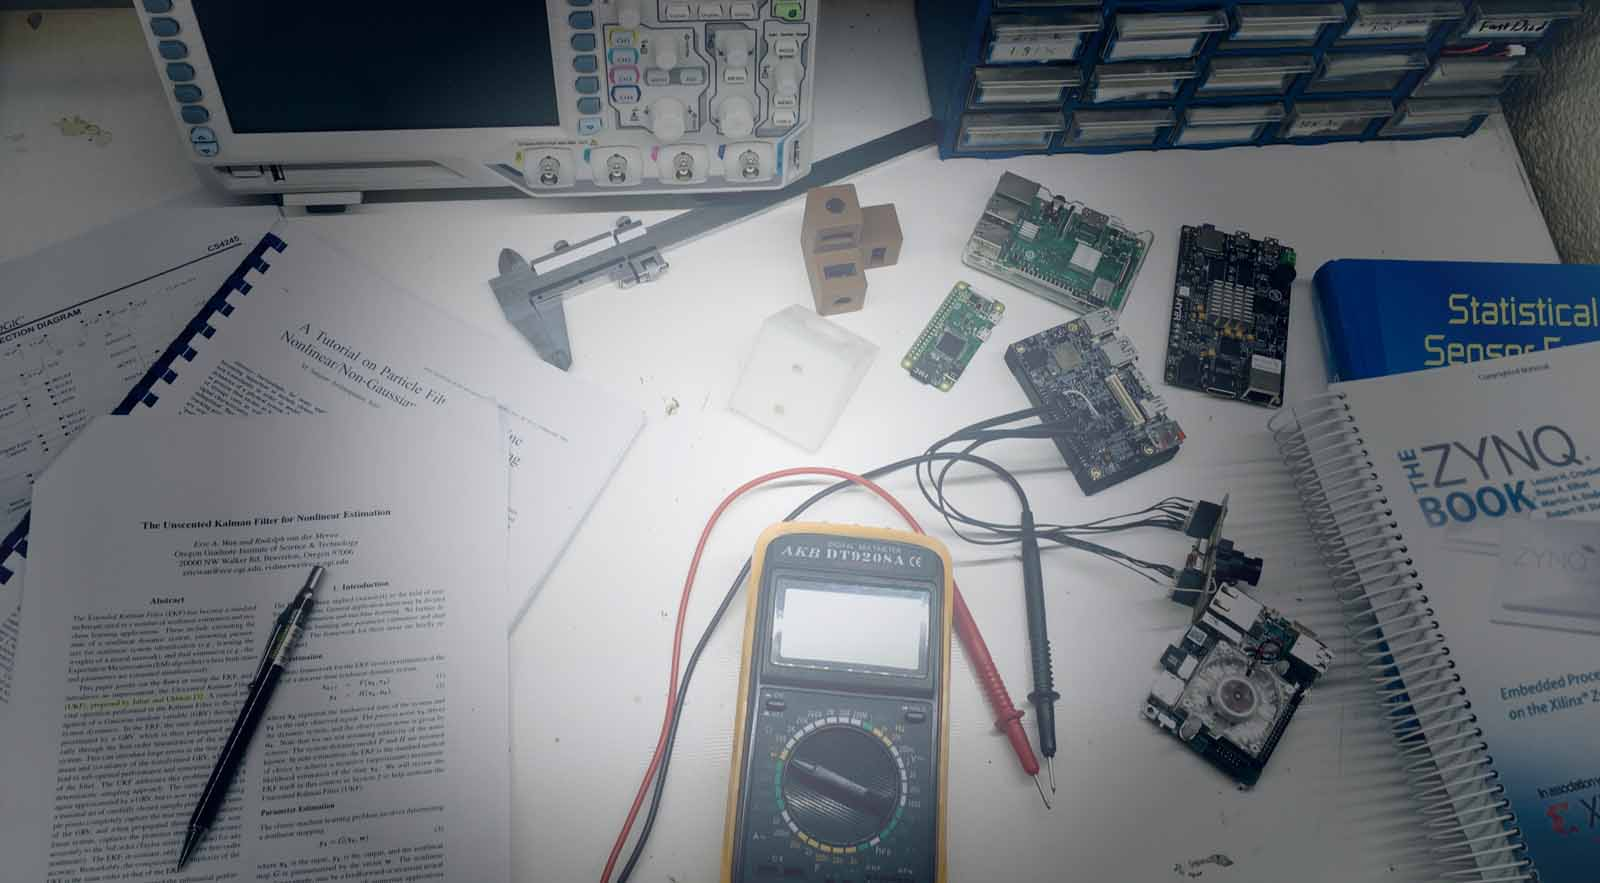
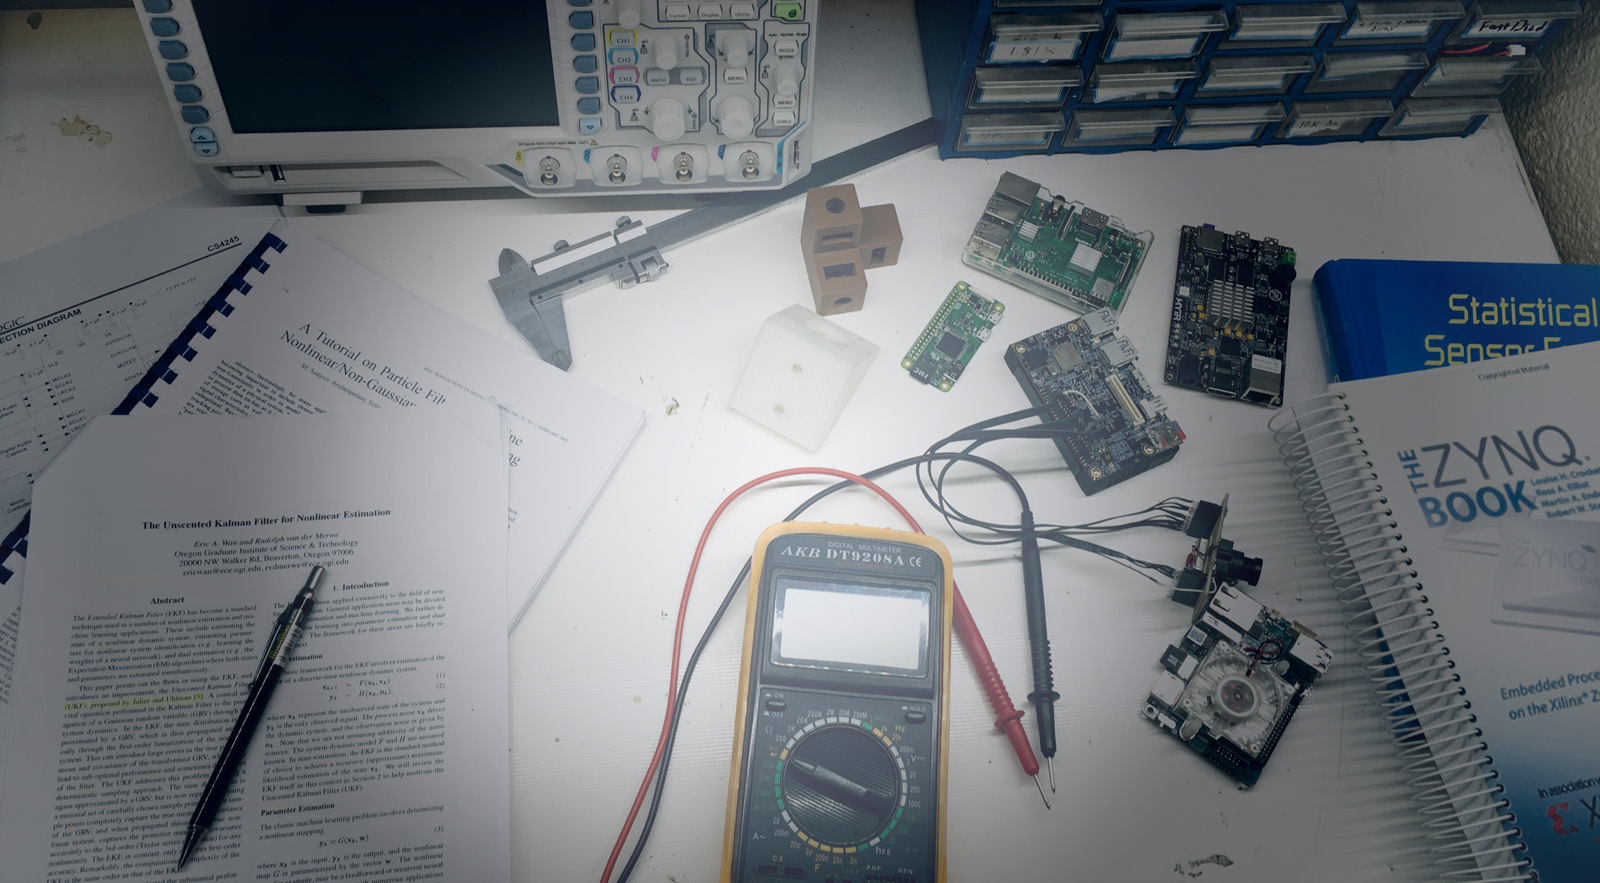
image changed

Changed region(s): [[0.9062, 0.3364, 1.0, 0.3669], [0.9062, 0.3975, 0.9375, 0.4281]]

diff --git a/index.md b/index.md
@@ -3,7 +3,7 @@ layout: splash
 permalink: /
 header:
   overlay_color: "#5e616c"
-  overlay_image: /assets/images/main_page_image_dark.png
+  overlay_image: /assets/images/main_page_image_dark.jpg
   actions:
     - label: "<i class='fas fa-download'></i> Install now"
       url: "/docs/quick-start-guide/"
